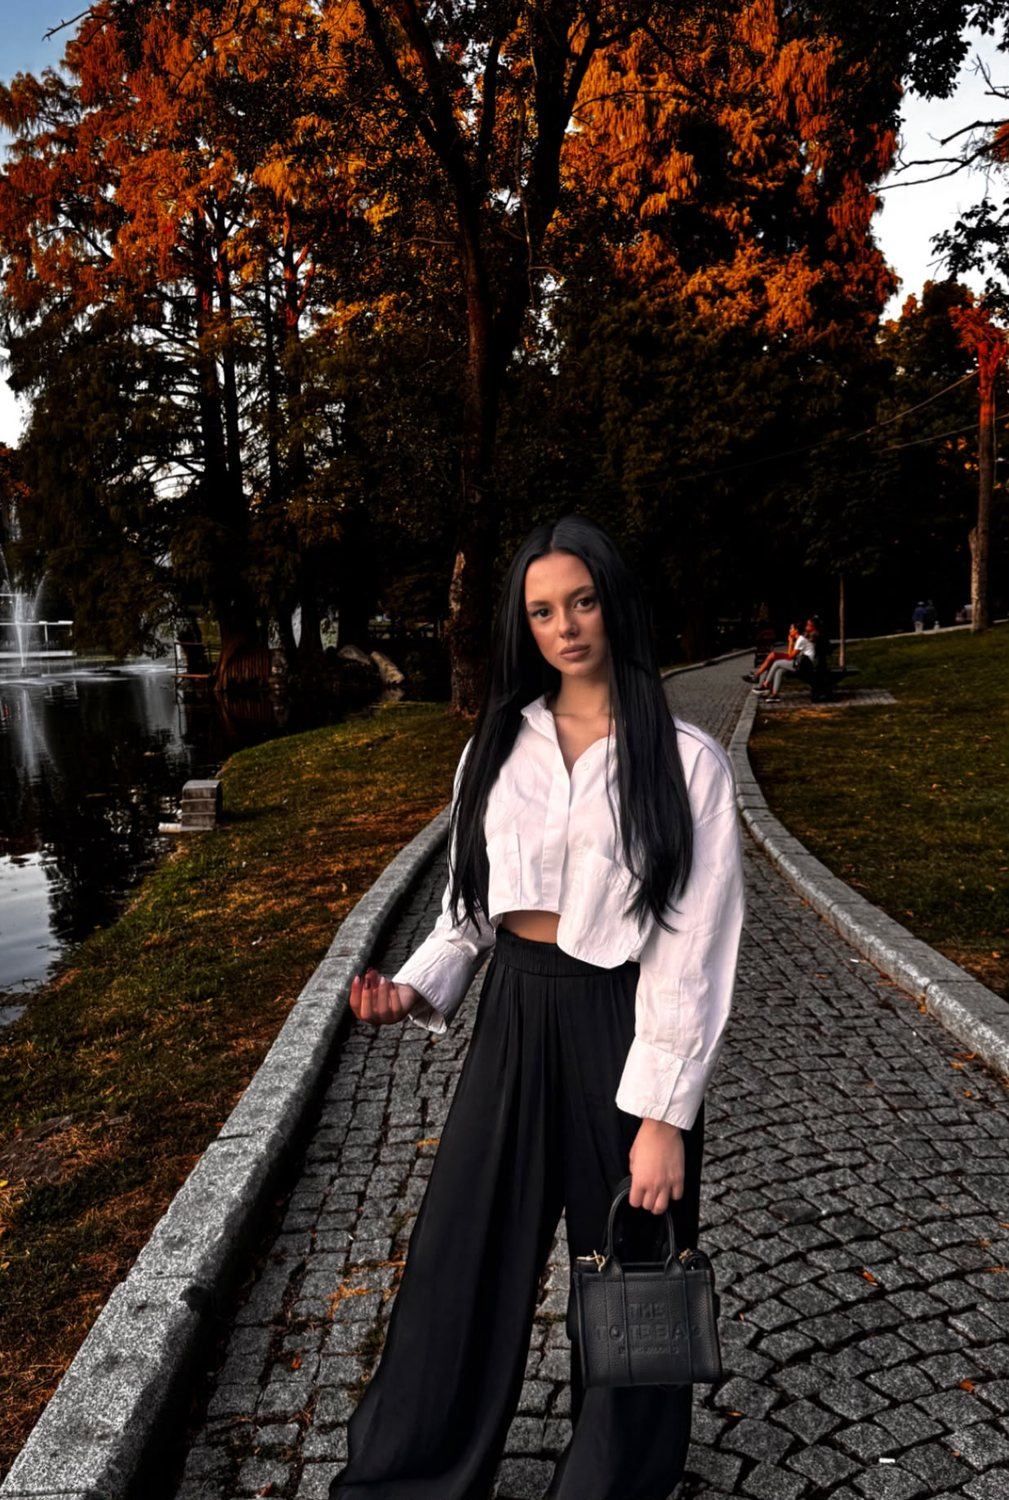
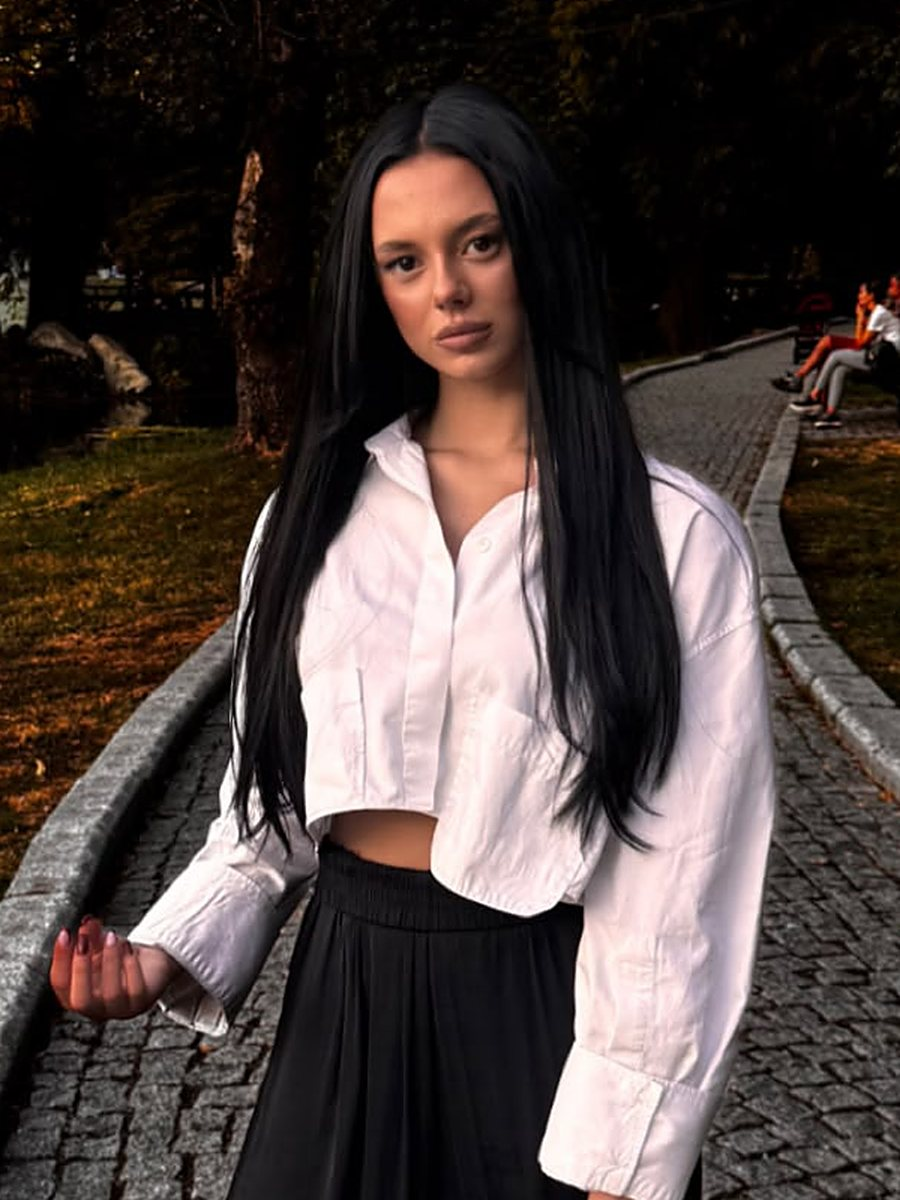
Vot hostess: poza Dariei decupata mai strans; in locul frazei despre votul unic, numaratoare inversa si nota „Iti poti muta votul oricand*”

diff --git a/app/src/sections/HostessVote.tsx b/app/src/sections/HostessVote.tsx
@@ -21,20 +21,31 @@ import './HostessVote.css';
 --------------------------------------------------------------------------- */
 const BY_ID: Record<string, Hostess> = Object.fromEntries(HOSTESSES.map(h => [h.id, h]));
 const MIN = 42;   // lungimea minimă a panglicii, în procente din cea maximă
-const MONTHS = ['ianuarie', 'februarie', 'martie', 'aprilie', 'mai', 'iunie', 'iulie', 'august', 'septembrie', 'octombrie', 'noiembrie', 'decembrie'];
 
-/** 1 zi, 2 zile, 20 de zile */
-const nr = (n: number, one: string, many: string) => (n === 1 ? `1 ${one}` : `${n}${n % 100 >= 20 || (n > 0 && n % 100 === 0) ? ' de' : ''} ${many}`);
-function left(ms: number) {
-  const m = Math.max(1, Math.ceil(ms / 60000)), d = Math.floor(m / 1440), h = Math.floor((m % 1440) / 60), mm = m % 60;
-  if (d > 0) return `${nr(d, 'zi', 'zile')} și ${nr(h, 'oră', 'ore')}`;
-  if (h > 0) return `${nr(h, 'oră', 'ore')} și ${mm} min`;
-  return `${mm} min`;
-}
-/** „1 octombrie, la 23:59" în ora României */
-function deadlineText(iso: string) {
-  const d = new Date(Date.parse(iso) + 3 * 3600e3);
-  return `${d.getUTCDate()} ${MONTHS[d.getUTCMonth()]}, la ${String(d.getUTCHours()).padStart(2, '0')}:${String(d.getUTCMinutes()).padStart(2, '0')}`;
+/** numărătoarea inversă până la închiderea votului, cu secunde; la zero reîncarcă starea (votul se închide) */
+export function VoteCountdown({ closesAt }: { closesAt: string }) {
+  const end = Date.parse(closesAt);
+  const [ms, setMs] = useState(() => end - Date.now());
+  useEffect(() => {
+    const t = setInterval(() => {
+      const left = end - Date.now();
+      setMs(left);
+      if (left <= 0) { clearInterval(t); setTimeout(() => useVote.getState().load(), 1500); }
+    }, 1000);
+    return () => clearInterval(t);
+  }, [end]);
+  if (!(ms > 0)) return null;
+  const s = Math.floor(ms / 1000);
+  const parts: [number, string][] = [[Math.floor(s / 86400), 'zile'], [Math.floor((s % 86400) / 3600), 'ore'], [Math.floor((s % 3600) / 60), 'min'], [s % 60, 'sec']];
+  return (
+    <div className="hv-cd-wrap">
+      <span className="mono hv-cd-l">Votul se închide în</span>
+      <div className="hv-cd" role="timer" aria-label="Timp până la închiderea votului">
+        {parts.map(([n, l]) => <div key={l}><b className="num">{String(n).padStart(2, '0')}</b><span className="mono">{l}</span></div>)}
+      </div>
+      <p className="hv-fine">Îți poți muta votul oricând*</p>
+    </div>
+  );
 }
 const names = (hs: Hostess[]) => (hs.length < 2 ? hs.map(h => h.name).join('') : `${hs.slice(0, -1).map(h => h.name).join(', ')} și ${hs[hs.length - 1].name}`);
 
@@ -77,7 +88,6 @@ export function useVoteView() {
   const paused = !ended && v.loaded && !v.on;
   const canVote = v.loaded && v.open && !ended;
   const winners = ended && v.announce ? voteWinners(v.counts) : [];
-  const when = deadlineText(v.closesAt);
   const title = ended ? 'Your favorite hostess' : 'Cast your vote for your favorite hostess';
   let lead: string;
   if (ended && winners.length === 1) {
@@ -86,14 +96,14 @@ export function useVoteView() {
   } else if (ended && winners.length > 1) lead = `Votul s-a încheiat la egalitate: ${names(winners)}. Ne vedem la seara finală, pe 3 octombrie.`;
   else if (ended) lead = 'Votul s-a încheiat. Mulțumim tuturor celor care au votat!';
   else if (paused) lead = 'Votul e oprit pentru moment. Revine în curând.';
-  else lead = `Una dintre ele urcă pe scena serii finale ca hostess, pe 3 octombrie. Atinge o panglică, vezi cine e și votează. Ai un singur vot de pe fiecare telefon sau calculator și îl poți muta oricând, până pe ${when}.`;
-  const status = ended ? 'Vot încheiat' : paused ? 'Vot oprit' : canVote ? `Votul se închide în ${left(Date.parse(v.closesAt) - Date.now())}` : 'Vot';
-  return { v, ended, paused, canVote, winners, when, title, lead, status, simFinal };
+  else lead = 'Una dintre ele urcă pe scena serii finale ca hostess, pe 3 octombrie. Atinge o panglică, vezi cine e și votează.';
+  const status = ended ? 'Vot încheiat' : paused ? 'Vot oprit' : canVote ? 'Vot deschis' : 'Vot';
+  return { v, ended, paused, canVote, winners, title, lead, status, simFinal };
 }
 
 export function HostessVote({ variant = 'section' }: { variant?: 'section' | 'page' }) {
   const view = useVoteView();
-  const { v, ended, canVote, winners } = view;
+  const { v, canVote, winners } = view;
   const mobile = useMobile();
   const [sel, setSel] = useState<string | null>(null);
   const [drawer, setDrawer] = useState(false);
@@ -154,9 +164,10 @@ export function HostessVote({ variant = 'section' }: { variant?: 'section' | 'pa
             <div className="idx"><span className="bar bar-sm">Seara finală · 3 oct</span><span className="mono">{view.status}</span></div>
             <h2 className="h2">{view.title}</h2>
             <p className="aside body">{view.lead}</p>
+            {canVote && <VoteCountdown closesAt={v.closesAt} />}
           </div>
         )}
-        {variant === 'page' && <p className="mono hv-status">{view.status}</p>}
+        {variant === 'page' && (canVote ? <div className="hv-page-cd"><VoteCountdown closesAt={v.closesAt} /></div> : <p className="mono hv-status">{view.status}</p>)}
         <div className="hv-grid">
           <ol ref={listRef} className={`hv-list ${inView ? 'is-in' : ''} ${ready ? 'is-ready' : ''}`} aria-label="Candidatele">
             {ranked.map((h, i) => {
@@ -186,7 +197,6 @@ export function HostessVote({ variant = 'section' }: { variant?: 'section' | 'pa
           </ol>
           {!mobile && <div className="hv-side" style={{ ['--c' as string]: curSchool?.color } as CSSProperties}>{panel}</div>}
         </div>
-        {mobile && !drawer && <p className="mono hv-hint">{canVote ? 'Atinge o panglică și votează' : ended ? 'Atinge o panglică să vezi cine e' : ''}</p>}
       </div>
       {mobile && drawer && cur && createPortal(
         <div className="hv-drawer" role="dialog" aria-label={`${cur.name}, ${curSchool!.name}`} data-lenis-prevent style={{ ['--c' as string]: curSchool!.color } as CSSProperties}>
@@ -198,13 +208,12 @@ export function HostessVote({ variant = 'section' }: { variant?: 'section' | 'pa
 }
 
 function Panel({ h, view, win }: { h: Hostess; view: ReturnType<typeof useVoteView>; win: boolean }) {
-  const { v, canVote, ended, paused, when } = view;
+  const { v, canVote, ended, paused } = view;
   const sc = SCHOOL_BY_ID[h.school];
   const mine = v.mine === h.id;
-  const mineH = v.mine ? BY_ID[v.mine] : null;
   const burst = v.justVoted?.id === h.id && Date.now() - v.justVoted.at < 2500;
   let note = '';
-  if (canVote) note = mine ? `Te poți răzgândi până pe ${when}.` : mineH ? `Votul tău e acum la ${mineH.name}. Dacă votezi aici, îl muți.` : 'Un singur vot de pe fiecare telefon sau calculator.';
+  if (canVote) note = '';
   else if (ended) note = win ? 'Câștigătoarea votului publicului.' : mine ? 'Aici a fost votul tău.' : 'Votul s-a încheiat.';
   else if (paused) note = 'Votul e oprit momentan.';
   else if (v.loaded && !v.live) note = 'Votul nu a început încă.';

diff --git a/app/src/data/hostess.ts b/app/src/data/hostess.ts
@@ -7,5 +7,5 @@ export const HOSTESSES: Hostess[] = [
   {"id": "pruna-andra", "name": "Prună Andra", "school": "titulescu", "full": "/hostess/pruna-andra.jpg", "eyes": "/hostess/pruna-andra-eyes.jpg", "w": 706, "h": 1146, "eyesW": 945, "eyesH": 240, "focusY": 0.464},
   {"id": "balasoiu-alexia-maria", "name": "Bălășoiu Alexia-Maria", "school": "minulescu", "full": "/hostess/balasoiu-alexia-maria.jpg", "eyes": "/hostess/balasoiu-alexia-maria-eyes.jpg", "w": 844, "h": 1500, "eyesW": 2007, "eyesH": 240, "focusY": 0.3},
   {"id": "petroi-anaya-veronica", "name": "Petroi Anaya Veronica", "school": "greceanu", "full": "/hostess/petroi-anaya-veronica.jpg", "eyes": "/hostess/petroi-anaya-veronica-eyes.jpg", "w": 844, "h": 1500, "eyesW": 2033, "eyesH": 240, "focusY": 0.406},
-  {"id": "dumitrescu-daria-anamaria", "name": "Dumitrescu Daria Anamaria", "school": "lps", "full": "/hostess/dumitrescu-daria-anamaria.jpg", "eyes": "/hostess/dumitrescu-daria-anamaria-eyes.jpg", "w": 1009, "h": 1500, "eyesW": 1994, "eyesH": 240, "focusY": 0.405},
+  {"id": "dumitrescu-daria-anamaria", "name": "Dumitrescu Daria Anamaria", "school": "lps", "full": "/hostess/dumitrescu-daria-anamaria.jpg", "eyes": "/hostess/dumitrescu-daria-anamaria-eyes.jpg", "w": 900, "h": 1200, "eyesW": 1994, "eyesH": 240, "focusY": 0.405},
 ];

diff --git a/app/src/sections/HostessVote.css b/app/src/sections/HostessVote.css
@@ -66,7 +66,16 @@
 .hv-vote.is-mine, .hv-vote.is-mine[disabled] { opacity: 1; background: transparent; color: var(--ye-500); border-color: var(--ye-500); letter-spacing: .04em; }
 .hv-note { color: var(--fg-2); font-size: var(--t-sm); max-width: 44ch; }
 .hv-err { color: #FF8FA3; font-size: var(--t-sm); }
-.hv-hint { margin-top: var(--s5); color: var(--fg-3); }
+/* numărătoarea inversă (ca în cardul din prima pagină) și nota măruntă */
+.hv-cd-wrap { display: grid; gap: var(--s2); justify-items: start; margin-top: var(--s2); }
+.hv-cd-l { color: var(--fg-3); font-size: var(--t-2xs); letter-spacing: .12em; }
+.hv-cd { display: flex; gap: clamp(var(--s4), 3vw, var(--s8)); flex-wrap: wrap; }
+.hv-cd > div { display: grid; }
+.hv-cd b { font-weight: 800; font-size: clamp(2.2rem, 4.4vw, 3.4rem); letter-spacing: -.04em; line-height: 1; color: var(--ye-500);
+  font-variation-settings: 'opsz' 96, 'wdth' 80, 'wght' 800; text-shadow: 0 0 24px rgba(250,204,21,.25); }
+.hv-cd .mono { margin-top: 4px; }
+.hv-fine { font-size: var(--t-2xs); color: var(--fg-3); letter-spacing: .02em; }
+.hv-page-cd { margin-bottom: clamp(var(--s8), 4vw, var(--s12)); }
 
 /* confetti mic la vot, în culoarea liceului și galben */
 .hv-burst { position: absolute; left: 50%; top: 50%; pointer-events: none; }

diff --git a/app/scripts/hostess.py b/app/scripts/hostess.py
@@ -44,6 +44,10 @@ EYES = {
     'Petroi Anaya Veronica - Radu Greceanu.png': ((418, 653), (499, 647)),
     'Prună Andra - Nicolae Titulescu.png': ((425, 461), (487, 602)),
 }
+# poza mare, decupată mai strâns cand fata e mică în cadru (x0, y0, x1, y1 pe poza originala, 3:4)
+FULL_CROP = {
+    'Dumitrescu Daria Anamaria - LPS.png': (395, 575, 995, 1375),
+}
 NAVY = (11, 14, 34)  # fundalul site-ului, umbrele duotonului (ca la fundalul din prima pagina)
 STRIP_H = 240        # inaltimea benzii cu ochi (panglica are cel mult ~76px, ecrane de 3x)
 
@@ -135,7 +139,11 @@ def main():
         eyes_src = min(imgs, key=lambda x: x[1].height / x[1].width) if len(imgs) > 1 else full
         if eyes_src[0] not in EYES: sys.exit(f'Lipseste pozitia ochilor pentru „{eyes_src[0]}” in EYES (scripts/hostess.py).')
         pid = slug(person)
-        big = full[1].copy(); big.thumbnail((1500, 1500), Image.LANCZOS)
+        big = full[1].crop(FULL_CROP[full[0]]) if full[0] in FULL_CROP else full[1].copy()
+        if full[0] in FULL_CROP and big.height < 1200:   # decupajul strâns rămâne mic: îl mărim fin, ca browserul să nu-l întindă grosier
+            k = 1200 / big.height
+            big = big.resize((round(big.width * k), 1200), Image.LANCZOS).filter(ImageFilter.UnsharpMask(radius=1.6, percent=60, threshold=2))
+        big.thumbnail((1500, 1500), Image.LANCZOS)
         big.save(os.path.join(OUT, f'{pid}.jpg'), 'JPEG', quality=84, optimize=True, progressive=True)
         strip, raw, info = eye_strip(eyes_src[1], EYES[eyes_src[0]], SCHOOLS[sid])
         strip.save(os.path.join(OUT, f'{pid}-eyes.jpg'), 'JPEG', quality=86, optimize=True, progressive=True)
